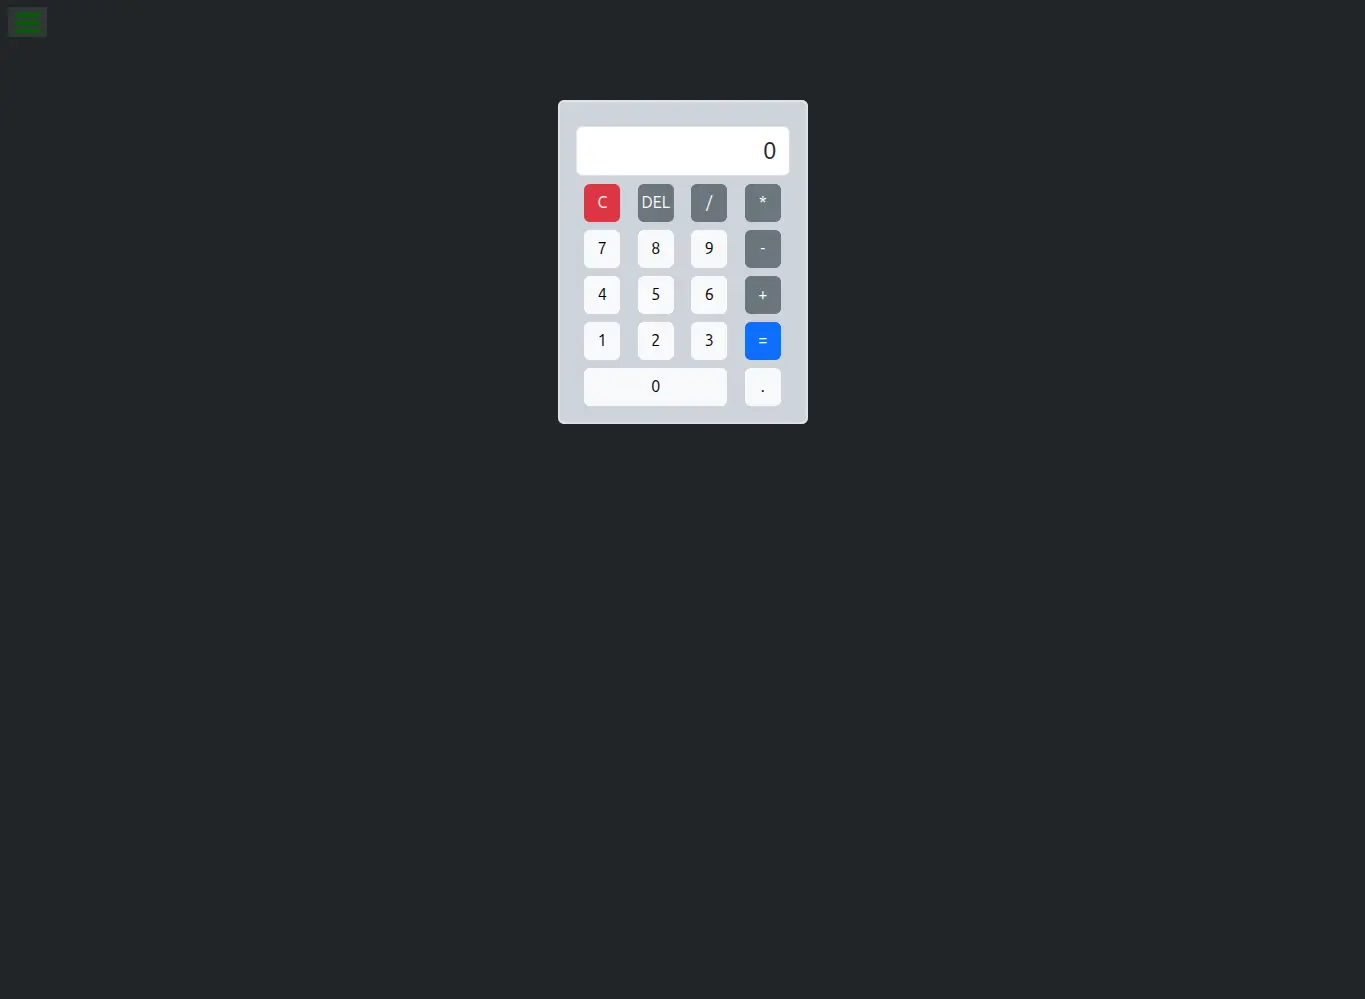
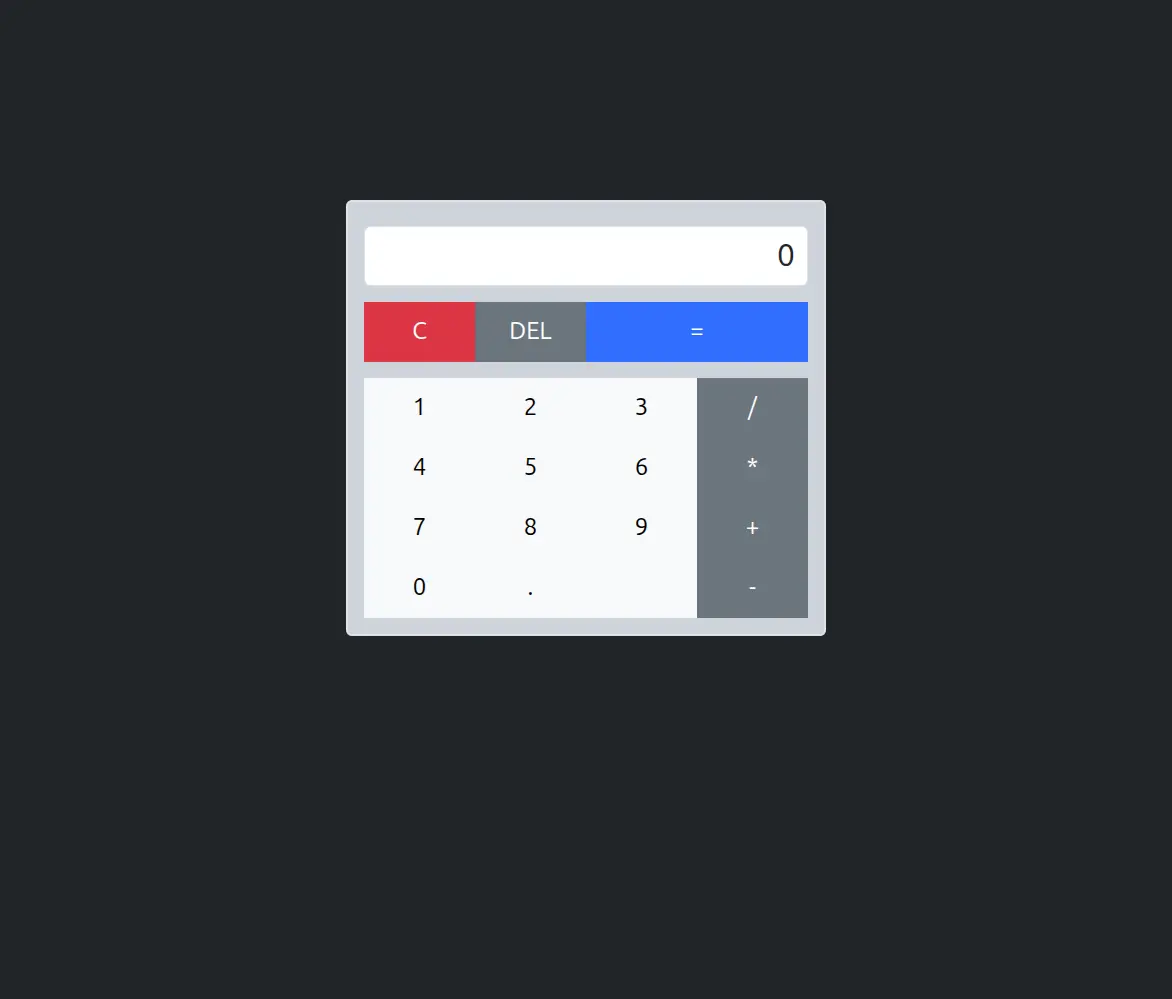
feat: update jQuery Calculator layout and add project paths for add badge

Changed region(s): [[0.2765, 0.0931, 0.7065, 0.6517], [0.0, 0.0, 0.0307, 0.031]]

diff --git a/index.js b/index.js
@@ -75,7 +75,15 @@ function truncateDescription(description) {
   return description;
 }
 
-function renderCards(title, description, status, image, link, lastUpdate) {
+function renderCards(
+  title,
+  description,
+  path,
+  status,
+  image,
+  link,
+  lastUpdate
+) {
   const card = document.createElement("div");
   card.classList.add("card");
   card.innerHTML = `
@@ -91,8 +99,11 @@ function renderCards(title, description, status, image, link, lastUpdate) {
           )}"></span>${status}</p>
         </div>
         <div class="field">
-          <p class="bold-label">Last Update:</p>
-          ${formatDate(lastUpdate)}
+          ${
+            path
+              ? `<img alt="GitHub last commit" style="width: 150px; margin-left: 40px;" src="https://img.shields.io/github/last-commit/WaCnerDev/MY-FCC-PROJECTS?path=${path}&style=flat&logoSize=auto&label=Last%20Commit%3A&color=%23404268">`
+              : ""
+          }
         </div>
       </div>  
     </div>
@@ -108,6 +119,7 @@ const projects = [
     title: "Survey Form",
     description:
       "A user-friendly form to collect information about your gaming preferences, designed with accessibility and responsiveness in mind.",
+    path: "WEB-RESPONSIVE%2fsurvey-form",
     image: "./image/preview_form.webp",
     status: "Completed",
     link: "./WEB-RESPONSIVE/survey-form/survey-form.html",
@@ -118,6 +130,7 @@ const projects = [
     title: "Technical Documentation",
     description:
       "JavaScript documentation website featuring sections, a navigation menu, and a responsive layout.",
+    path: "WEB-RESPONSIVE%2ftecnical-doc",
     image: "./image/preview_technical_doc.webp",
     status: "Completed",
     link: "./WEB-RESPONSIVE/tecnical-doc/tecnical-doc.html",
@@ -128,6 +141,7 @@ const projects = [
     title: "Landing Page Trombones",
     description:
       "Landing page for trombone sales with video, product section, and intuitive navigation.",
+    path: "WEB-RESPONSIVE%2ftrombones-store",
     image: "./image/preview_store_trombones.webp",
     status: "Completed",
     link: "./WEB-RESPONSIVE/trombones-store/trombones-store.html",
@@ -138,6 +152,7 @@ const projects = [
     title: "Tribute Page",
     description:
       "A tribute page dedicated to Nikola Tesla, highlighting his life, achievements, and legacy.",
+    path: "WEB-RESPONSIVE%2ftribute-pages",
     image: "./image/preview_tribute_page.webp",
     status: "Completed",
     link: "./WEB-RESPONSIVE/tribute-pages/tribute-pages.html",
@@ -148,6 +163,7 @@ const projects = [
     title: "Personal Portfolio",
     description:
       "A portfolio of web development projects, showcasing skills, technologies, and the various projects I have developed.",
+    path: "WEB-RESPONSIVE%2fpersonal-portfolio",
     image: "./image/preview_personal_portfolio.webp",
     status: "Development",
     link: "./WEB-RESPONSIVE/personal-portfolio/personal-portfolio.html",
@@ -158,6 +174,7 @@ const projects = [
     title: "Palindrome Checker",
     description:
       "This website allows users to check if a word or phrase is a palindrome.",
+    path: "DYNAMIC-PAGES-JS%2fpalindrome-checker",
     image: "./image/preview_palindrome.webp",
     status: "Completed",
     link: "./DYNAMIC-PAGES-JS/palindrome-checker/palindrome-checker.html",
@@ -168,6 +185,7 @@ const projects = [
     title: "Number System Converter",
     description:
       "This tool allows you to convert numbers between different number systems quickly and easily, including binary, hexadecimal, octal.",
+    path: "DYNAMIC-PAGES-JS%2fnum-system-converter",
     image: "./image/preview_num_system_converter.webp",
     status: "Completed",
     link: "./DYNAMIC-PAGES-JS/num-system-converter/num-system-converter.html",
@@ -178,6 +196,7 @@ const projects = [
     title: "Phone Number Validator",
     description:
       "Easily check the validity of U.S. phone numbers, no matter how they are formatted.",
+    path: "DYNAMIC-PAGES-JS%2fphone-validator",
     image: "./image/preview_phone-validator.webp",
     status: "Completed",
     link: "./DYNAMIC-PAGES-JS/phone-validator/phone-validator.html",
@@ -188,6 +207,7 @@ const projects = [
     title: "Cash Register",
     description:
       "This cash register app calculates change, displays the remaining cash in the drawer, and handles various transaction scenarios.",
+    path: "DYNAMIC-PAGES-JS%2fcash-register",
     image: "./image/preview_cash-register.webp",
     status: "Completed",
     link: "./DYNAMIC-PAGES-JS/cash-register/cash-register.html",
@@ -198,6 +218,7 @@ const projects = [
     title: "Pokedex from Game Boy",
     description:
       "A Pokedex that simulates the look and feel of a Game Boy. The buttons are functional, and you can search for Pokemon by ID or name.",
+    path: "DYNAMIC-PAGES-JS%2fpokedex",
     image: "./image/preview_pokedex.webp",
     status: "Development",
     link: "./DYNAMIC-PAGES-JS/pokedex/pokedex.html",
@@ -208,6 +229,7 @@ const projects = [
     title: "Random Quote Machine",
     description:
       "A random quote generator that fetches quotes from an API and displays them in a visually appealing way.",
+    path: undefined,
     image: "./image/preview_random_quote_machine.webp",
     status: "Completed",
     link: "https://codepen.io/WaCnerDev/pen/wBvVLjq",
@@ -218,6 +240,7 @@ const projects = [
     title: "Markdown Previewer",
     description:
       "A Markdown previewer that allows you to write and preview Markdown content in real-time.",
+    path: undefined,
     image: "./image/preview_markdown_previewer.webp",
     status: "Completed",
     link: "https://codepen.io/WaCnerDev/pen/bNNGYre",
@@ -228,6 +251,7 @@ const projects = [
     title: "Drum Machine",
     description:
       "A drum machine that allows you to play different drum sounds by clicking on buttons or using your keyboard.",
+    path: undefined,
     image: "./image/preview_drum_machine.webp",
     status: "Completed",
     link: "https://codepen.io/WaCnerDev/pen/emmpqLM",
@@ -238,6 +262,7 @@ const projects = [
     title: "Pomodoro Clock",
     description:
       "A Pomodoro clock that helps you manage your time effectively, with customizable work and break intervals.",
+    path: "FRONTEND-DEV-LIB%2fpomodoro-clock",
     image: "./image/preview_pomodoro_clock.webp",
     status: "Completed",
     link: "./FRONTEND-DEV-LIB/pomodoro-clock/pomodoro-clock.html",
@@ -248,6 +273,7 @@ const projects = [
     title: "Jquery Calculator",
     description:
       "A simple calculator built with jQuery, allowing basic arithmetic operations.",
+    path: "FRONTEND-DEV-LIB%2fjquery-calculator",
     image: "./image/preview_jquery_calculator.webp",
     status: "Completed",
     link: "./FRONTEND-DEV-LIB/jquery-calculator/jquery-calculator.html",
@@ -260,6 +286,7 @@ projects.forEach((project) => {
   const card = renderCards(
     project.title,
     project.description,
+    project.path,
     project.status,
     project.image,
     project.link,

diff --git a/index.html b/index.html
@@ -88,7 +88,7 @@
         <a href="https://www.freecodecamp.org/WaCnerDEV" target="_blank">
           <div id="profile-info">
             <img
-              src="https://i.pinimg.com/736x/55/9c/e6/559ce63da918057a9e83fc7c4dc02b9b.jpg"
+              src="https://i.ibb.co/Fkx63Byd/Chat-GPT-Image-May-31-2025-10-01-53-PM.png"
               alt="Profile picture"
             />
             <div class="col profile-name">

diff --git a/FRONTEND-DEV-LIB/jquery-calculator/jquery-calculator.html b/FRONTEND-DEV-LIB/jquery-calculator/jquery-calculator.html
@@ -18,7 +18,8 @@
     <div class="container">
       <div class="row">
 <div
-        class="calculator border border-2 rounded p-3 mx-auto mt-5 bg-dark-subtle col-md-6 col-sm-12"
+        class="border border-2 rounded p-3 mx-auto bg-dark-subtle col-md-6 col-sm-12"
+        style="margin-top: 200px;"
       >
         <div
           style="height: 60px; overflow-x: auto; white-space: nowrap"
